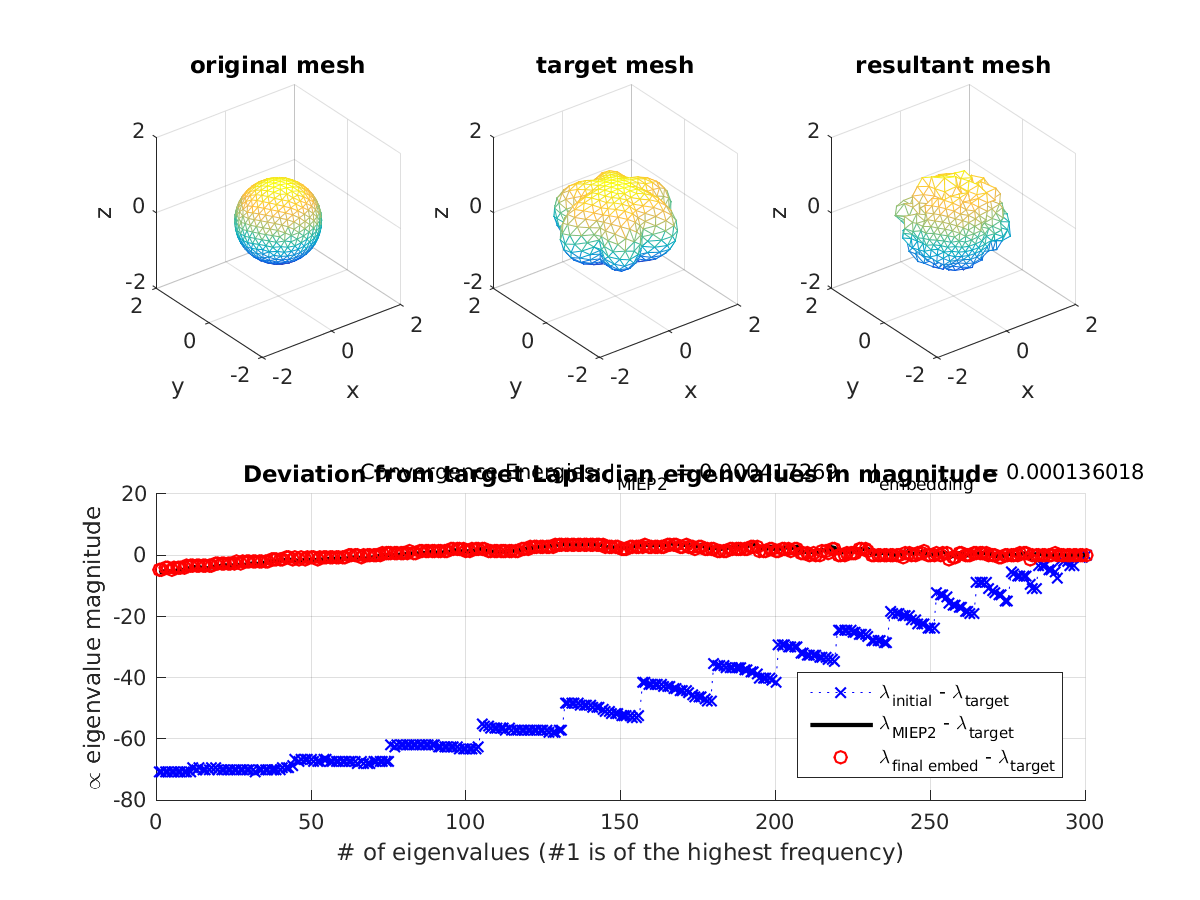
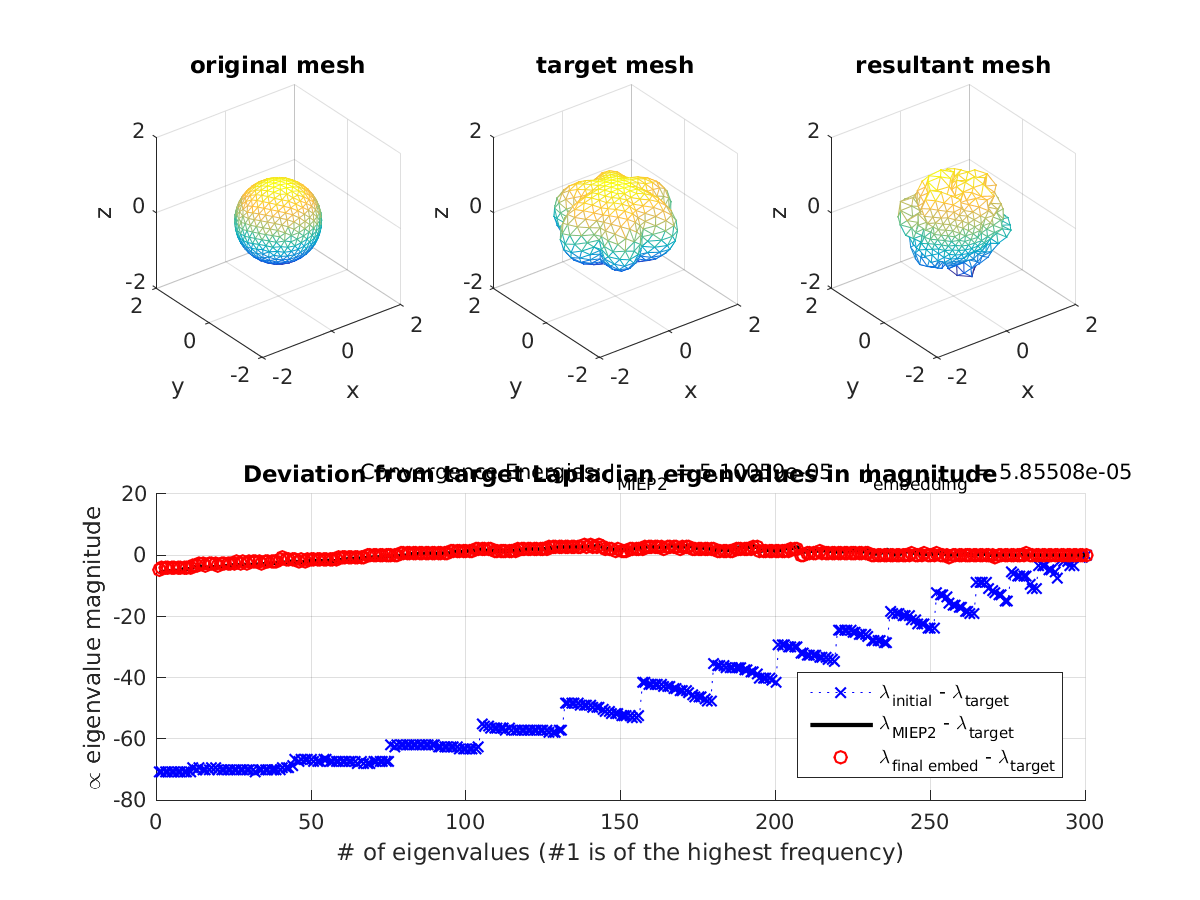
remote commit thru terminal; too lazy to type

diff --git a/main.m b/main.m
@@ -3,8 +3,8 @@ clear;
 input_case = 3; % 1 - import *.obj; 2 - sphere of ssize # of vtx; 3 - load *.mat
 target_case = 2; % 1 - rand conf defms; 2 - spharm defms; 3 - *.obj;
 imax = 2e3; % gradient descent maximum iterations
-aC = .5; bC = .4; tC = 50; etolC = 1e-3; % Conformal gradient descent control
-aS = .5; bS = .4; tS = 200; etolS = 1e-3; % invSpec gradient descent control
+aC = .5; bC = .4; tC = 30; etolC = 1e-3; % Conformal gradient descent control
+aS = .5; bS = .4; tS = 200; etolS = 5e-4; % invSpec gradient descent control
 numeig = 300; % number of eigenvalues used, 0 means full input
 rng(1432543); % rand seed
 pert = .8; % scaling coefficient used to control target perturbation
